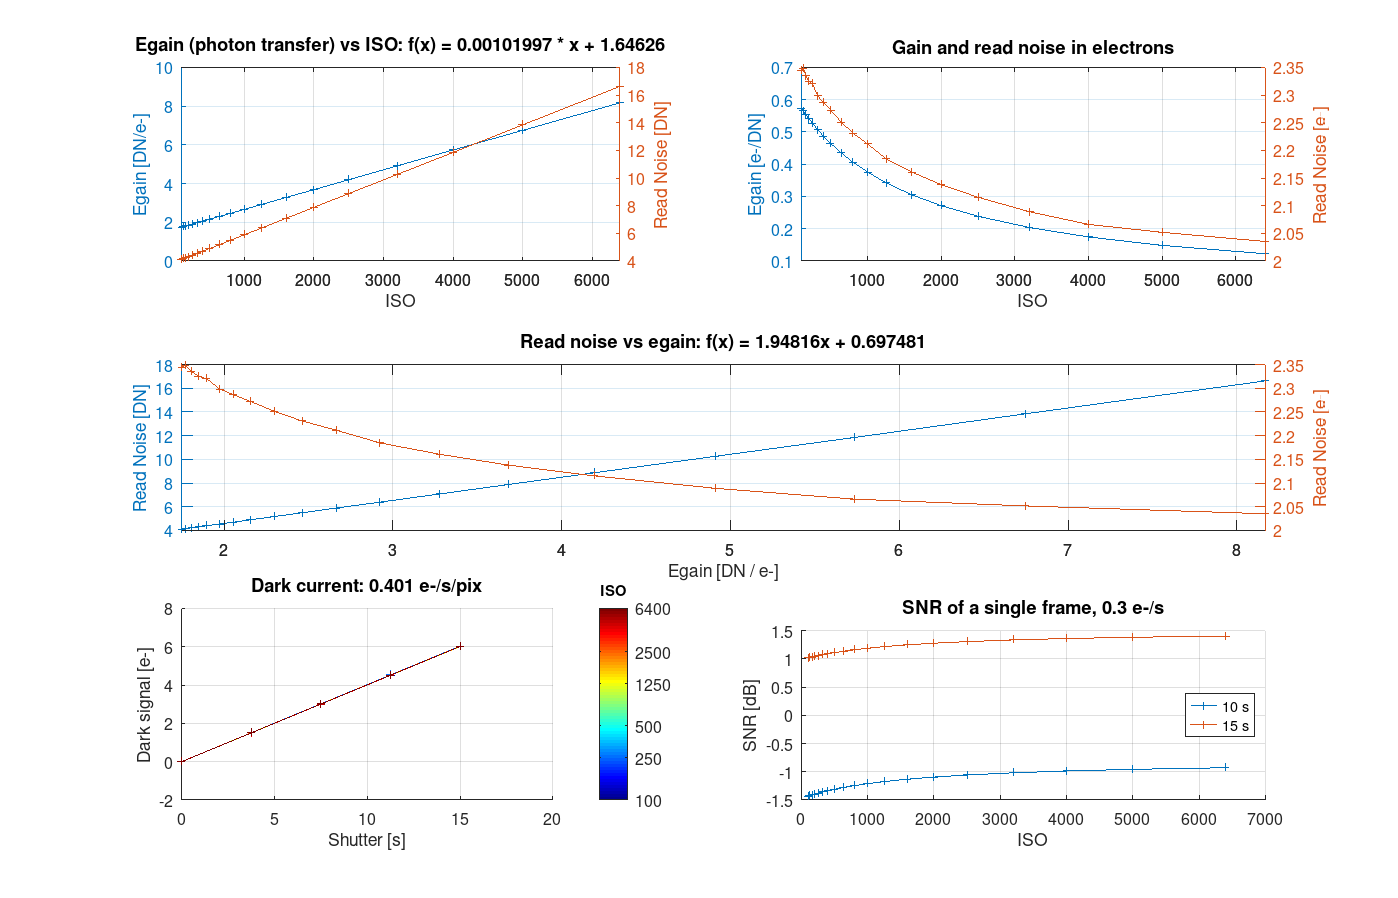
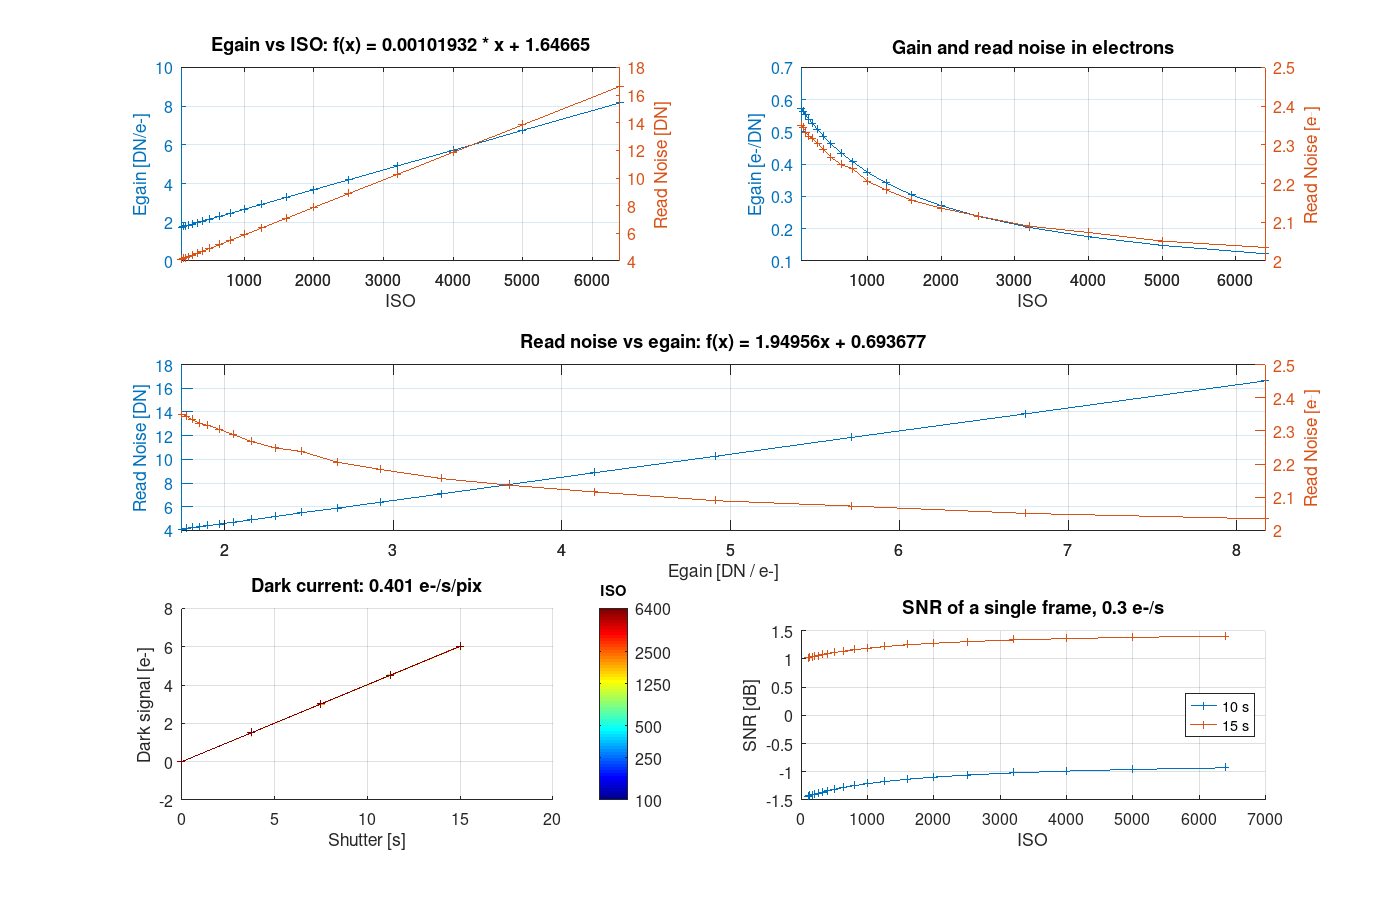
Refactor sensor characterization and fitting functions to use minimum setting instead of anchor; update README files for clarity. Remove unused sensor_anchor function and adjust related model definitions.

diff --git a/sensor_fit.m b/sensor_fit.m
@@ -1,26 +1,45 @@
-function out = sensor_fit(data, anchor = [])
-    % data:   [ISO shutter average sigma] rows from stats/<camera>.csv
-    % anchor: optional struct('iso', <setting>, 'egain', <DN/e->). When given, egain is taken
-    %         from the dark signal rate (DN/s scales with egain, dark current in e-/s does not)
-    %         scaled to the anchor, instead of from the photon-transfer slope. Use it for
-    %         cameras whose darks carry too little signal for photon transfer (cooled / low
-    %         dark current sensors); the anchor ISO should be one where the dark rate is
-    %         well measured.
+function out = sensor_fit(data, min_setting = [])
+    % data:        [ISO shutter average sigma] rows from stats/<camera>.csv
+    % min_setting: lowest ISO/gain to analyse. Default: chosen automatically - the lowest
+    %              setting from which the photon-transfer slope is significant for every
+    %              higher setting (slope / its standard error >= T_MIN). Low settings have too
+    %              little dark signal for a usable slope and are not used in astrophotography
+    %              anyway. Pass a value to override, 0 to keep everything.
+    T_MIN = 10;   % slope significance threshold, ~ correlation > 0.95 on 5+ points
+
     IDX_ISO     = 1;
     IDX_SHUTTER = 2;
     IDX_AVERAGE = 3;
     IDX_SIGMA   = 4;
 
     ISO = unique(data(:, IDX_ISO))';
-    #ISO = ISO(find(ISO < 1600));
-    #ISO = ISO(1:3:end);
-    #ISO = ISO(find(ISO > 500));
-    #ISO = ISO(1:4);
+
+    % significance of the photon-transfer slope for every setting
+    tstat = arrayfun(@(iso) slope_tstat(data(data(:, IDX_ISO) == iso, :)), ISO);
+
+    if isempty(min_setting)
+        bad = find(tstat < T_MIN, 1, 'last');
+        if isempty(bad)
+            min_setting = ISO(1);
+        elseif bad == numel(ISO)
+            error('sensor_fit: photon-transfer slope not significant at any setting (max t = %.1f)', max(tstat));
+        else
+            min_setting = ISO(bad + 1);
+        end
+    end
+    out = {};
+    out.min_setting = min_setting;
+    out.excluded    = ISO(ISO < min_setting);
+    out.tstat_all   = tstat;
+    ISO = ISO(ISO >= min_setting);
+    if ~isempty(out.excluded)
+        printf('sensor_fit: excluded settings below %g (slope not significant): %s\n', min_setting, mat2str(out.excluded));
+    end
+
     COLS = length(ISO);
     ROWS = max(arrayfun(@(iso) sum(data(:, IDX_ISO) == iso), ISO));
 
     % ISO settings may have a different number of exposures; missing entries are NaN
-    out = {};
     out.shutter = nan(ROWS, COLS);
     out.average = nan(ROWS, COLS);
     out.sigma   = nan(ROWS, COLS);
@@ -47,29 +66,9 @@ function out = sensor_fit(data, anchor = [])
     out.dark_rate = out.shutter2average(1, :)';   % DN/s, = dark_current * egain
 
     % Photon transfer: slope = egain, intercept = read noise^2
-    out.egain_pt    = out.average2sigma2(1, :)'; % DN / e-
+    out.egain       = out.average2sigma2(1, :)'; % DN / e-
     out.read_noise2 = out.average2sigma2(2, :)'; % DN^2
-
-    if isempty(anchor)
-        out.egain = out.egain_pt;
-        out.egain_source = 'photon transfer';
-        out.egain_rel = out.dark_rate / out.dark_rate(end);
-    else
-        k = find(ISO == anchor.iso);
-        if isempty(k)
-            error('sensor_fit: anchor ISO %g not in data', anchor.iso);
-        end
-        out.egain_rel = out.dark_rate / out.dark_rate(k);
-        out.egain = out.egain_rel * anchor.egain;
-        out.egain_source = sprintf('dark rate, anchored at %g = %g DN/e-', anchor.iso, anchor.egain);
-        % with egain fixed, read noise^2 is the mean offset of sigma^2 above the Poisson term
-        for i = 1:COLS
-            ok = ~isnan(out.average(:, i));
-            out.read_noise2(i) = mean(out.sigma2(ok, i) - out.egain(i) * out.average(ok, i));
-        end
-    end
-    out.anchor = anchor;
-    out.read_noise = sqrt(out.read_noise2);      % DN
+    out.read_noise  = sqrt(out.read_noise2);     % DN
 
     out.egain2read_noise = polyfit_cols(out.egain, out.read_noise, 1);
 
@@ -108,4 +107,19 @@ function out = polyfit_cols(x, y, n)
         c = polyfit(x(ok, i), y(ok, i), n);
         out(:, i) = c;
     end
+end
+
+% slope / standard error of the sigma^2(average) fit for one setting's rows
+function t = slope_tstat(rows)
+    x = rows(:, 3) - polyfit(rows(:, 2), rows(:, 3), 1)(2);   % average - bias
+    y = rows(:, 4) .^ 2;
+    n = numel(x);
+    if n < 3
+        t = 0;
+        return;
+    end
+    p = polyfit(x, y, 1);
+    res = y - polyval(p, x);
+    se = sqrt(sum(res .^ 2) / (n - 2) / sum((x - mean(x)) .^ 2));
+    t = p(1) / se;
 end

diff --git a/sensor_models.m b/sensor_models.m
@@ -2,17 +2,17 @@ function camera = sensor_models(name)
     % Returns a fitted sensor model by name (output of sensor_print_model).
     switch name
         case "ASI2600MM_5deg"
-            % egain below gain ~150 is unreliable: cooled darks carry too little signal for
-            % photon transfer (see README); read noise in DN is fine
+            % settings below gain 150 excluded by sensor_fit: cooled darks carry too little
+            % signal for a significant photon-transfer slope
             camera = {};
             camera.name = "ASI2600MM_5deg";
             camera.egain2read_noise = @(egain) 0.692273 * egain + 1.70705; # DN
             camera.dark_current = 0.00174143; # e-/s/pix
             camera.bias = 99; # DN
-            camera.egain = [ 6.15376 4.64231 7.14755 6.46586 7.55838 9.30614 10.6594 8.69506 6.84118 14.2484 25.3508 43.54 66.4655 108.061 161.314 263.544 ];
-            camera.read_noise = [ 4.44454 5.55744 7.34372 9.57737 10.0464 10.6008 11.2952 11.7524 5.69132 9.45753 16.0455 26.9249 43.7335 72.052 115.553 186.437 ]; # DN, per setting
+            camera.egain = [ 14.2484 25.3508 43.54 66.4655 108.061 161.314 263.544 ]; # DN/e-, settings >= 150
+            camera.read_noise = [ 9.45753 16.0455 26.9249 43.7335 72.052 115.553 186.437 ]; # DN, per setting
             camera.has_iso = 0; # if false, log10(iso / 100) * 200 = gain [0.1dB]
-            camera.iso = [ 100 133.352 177.828 237.137 251.189 266.073 281.838 298.538 316.228 562.341 1000 1778.28 3162.28 5623.41 10000 17782.8 ];
+            camera.iso = [ 562.341 1000 1778.28 3162.28 5623.41 10000 17782.8 ];
             camera.iso2egain = @(iso) 0.01496 * iso + 7.63132; # DN/e-
 
         case "Nikon_D5100"
@@ -26,20 +26,6 @@ function camera = sensor_models(name)
             camera.has_iso = 1; # if false, log10(iso / 100) * 200 = gain [0.1dB]
             camera.iso = [ 100 125 160 200 250 320 400 500 640 800 1000 1250 1600 2000 2500 3200 4000 5000 6400 ];
             camera.iso2egain = @(iso) 0.0010196 * iso + 1.64578; # DN/e-
-
-        case "Nikon_Z6_2"
-            % egain from dark rate anchored at ISO 800 (sensor_anchor, provisional);
-            % ISO 100-200 unreliable until multi-minute darks are taken
-            camera = {};
-            camera.name = "Nikon_Z6_2";
-            camera.egain2read_noise = @(egain) 1.21549 * egain + 2.61663; # DN
-            camera.dark_current = 0.0282884; # e-/s/pix
-            camera.bias = 1008; # DN
-            camera.egain = [ 0.529149 0.133743 1.34713 1.94479 2.64 5.84907 11.3431 23.9004 49.1149 91.2823 ]; # dark rate, anchored at 800 = 2.64 DN/e-
-            camera.read_noise = [ 1.60813 2.62955 4.68644 7.24611 5.44223 9.542 17.3183 28.9757 64.2185 113.115 ]; # DN, per setting
-            camera.has_iso = 1; # if false, log10(iso / 100) * 200 = gain [0.1dB]
-            camera.iso = [ 100 200 400 640 800 1600 3200 6400 12800 25600 ];
-            camera.iso2egain = @(iso) 0.00361893 * iso + 0.0841148; # DN/e-
 
         otherwise
             error("sensor_models: unknown sensor '%s'", name);

diff --git a/sensor_plot.m b/sensor_plot.m
@@ -22,10 +22,10 @@ function sensor_plot(analysis)
         plot_iso(p.average, p.sigma2, p, p.average2sigma2);
         xlabel('Average - Bias [DN]');
         ylabel('Sigma^2 [DN^2]');
-        if isempty(p.anchor)
+        if isempty(p.excluded)
             title('Photon transfer: slope = egain [DN/e-], intercept = read noise^2');
         else
-            title('Photon transfer (not used for egain: too little dark signal, see anchor)');
+            title(sprintf('Photon transfer: slope = egain [DN/e-], intercept = read noise^2  (settings < %g excluded: slope not significant)', p.min_setting));
         end
     end
 
@@ -42,11 +42,11 @@ function sensor_plot(analysis)
     ylabel(ax(2), 'Read Noise [DN]');
     if p.has_iso
         xlabel('ISO');
-        title(sprintf("Egain (%s) vs ISO: f(x) = %g * x + %g", p.egain_source, p.iso2egain(1), p.iso2egain(2)));
+        title(sprintf("Egain vs ISO: f(x) = %g * x + %g", p.iso2egain(1), p.iso2egain(2)));
     else
         label_gain_ticks(ax, p);
         xlabel('Gain [0.1 dB]  (linear in 100*10^{gain/200})');
-        title(sprintf("Egain (%s) vs gain: f(g) = %g * 100*10^{g/200} + %g", p.egain_source, p.iso2egain(1), p.iso2egain(2)));
+        title(sprintf("Egain vs gain: f(g) = %g * 100*10^{g/200} + %g", p.iso2egain(1), p.iso2egain(2)));
     end
     grid on;
     hold on;

diff --git a/sensor_characterize.m b/sensor_characterize.m
@@ -1,15 +1,15 @@
-function analysis = sensor_characterize(name = 'ASI2600MM_5deg', anchor = sensor_anchor(name))
-    % anchor: [] for photon-transfer egain, or struct('iso', ..., 'egain', ...) - see sensor_fit
-    analysis = load_stats(name, anchor);
+function analysis = sensor_characterize(name = 'ASI2600MM_5deg', min_setting = [])
+    % min_setting: lowest ISO/gain to analyse ([] = automatic, see sensor_fit)
+    analysis = load_stats(name, min_setting);
 
     sensor_plot(analysis);
     sensor_print_model(analysis);
 end
 
-function out = load_stats(name, anchor)
+function out = load_stats(name, min_setting)
     % CSV columns: ISO; shutter [s]; average [DN]; sigma [DN]
     data = dlmread(fullfile('stats', [name '.csv']), ';');
 
-    out = sensor_fit(data, anchor);
+    out = sensor_fit(data, min_setting);
     out.name = name;
 end

diff --git a/sensor_print_model.m b/sensor_print_model.m
@@ -5,7 +5,7 @@ function sensor_print_model(p)
     printf("  camera.egain2read_noise = @(egain) %g * egain + %g; # DN\n", p.egain2read_noise(1), p.egain2read_noise(2));
     printf("  camera.dark_current = %g; # e-/s/pix\n", p.dark_current);
     printf("  camera.bias = %g; # DN\n", floor(median(p.bias)));
-    printf("  camera.egain = [ %s]; # %s\n", sprintf("%g ", p.egain'), p.egain_source);
+    printf("  camera.egain = [ %s]; # DN/e-, settings >= %g\n", sprintf("%g ", p.egain'), p.min_setting);
     printf("  camera.read_noise = [ %s]; # DN, per setting\n", sprintf("%g ", p.read_noise'));
     printf("  camera.has_iso = %d; # if false, log10(iso / 100) * 200 = gain [0.1dB]\n", p.has_iso)
     printf("  camera.iso = [ %s];\n", sprintf("%g ", p.iso));

diff --git a/README.md b/README.md
@@ -95,15 +95,15 @@ real noise the model should describe. Options for faulty data only:
 
 Parameters used: `Nikon_D5100` – `--win 4096 --clip 8`; `Nikon_Z6_2`, `ASI2600MM_5deg` – defaults.
 
-### analysis = sensor_characterize(name, anchor = sensor_anchor(name))
+### analysis = sensor_characterize(name, min_setting = [])
 Main entry point. Loads `stats/<name>.csv` → `sensor_fit` → `sensor_plot` → `sensor_print_model`.
 Returns the `analysis` struct (e.g. for `sensor_plot_iso_limit`).
 
-### analysis = sensor_fit(data, anchor = [])
+### analysis = sensor_fit(data, min_setting = [])
 From the `[ISO shutter average sigma]` matrix computes, for every ISO:
 - `bias` – intercept of the average(shutter) line
 - `dark_rate` [DN/s] – slope of the average(shutter) line
-- `egain_pt` [DN/e-] – slope of the sigma²(average − bias) line (photon transfer)
+- `egain` [DN/e-] – slope of the sigma²(average − bias) line (photon transfer)
 - `read_noise` [DN] – √ of that line's intercept
 - `dark_current` [e-/s/pix] – `dark_rate / egain`
 - `iso2egain`, `egain2read_noise` – linear fits between ISO and the parameters;
@@ -112,18 +112,14 @@ From the `[ISO shutter average sigma]` matrix computes, for every ISO:
 
 The number of exposures may differ between ISO settings (missing entries are `NaN`).
 
-**Where egain comes from.** Photon transfer on darks only works when the dark signal is large
-(D5100: 0.4 e-/s). Cameras with low dark current (cooled astro cameras, modern DSLRs) accumulate
-< 1 e- over the whole series and the variance grows mostly through hot/blinking pixels – the slope
-is random. `anchor = struct('iso', I, 'egain', G)` switches the method: dark current in e-/s does
-not depend on ISO, so `dark_rate(ISO) / dark_rate(I)` is the relative egain (the mean is robust to
-hot pixels) and `G` (from a datasheet / a single flat pair) fixes the absolute value. Read noise² is
-then `sigma² − egain·average`. `egain_source` records which method was used.
-Relative egain at low ISO needs long darks (Z6 II: 0.015 DN/s at ISO 100 → several minutes to
-rise above the noise of the mean).
-
-### anchor = sensor_anchor(name)
-Table of external egain references for cameras that need one (`[]` = photon transfer).
+**Minimum ISO/gain.** Photon transfer needs the dark signal to grow clearly over the series. At low
+ISO/gain on cameras with low dark current (cooled astro cameras, modern DSLRs) less than 1 e-
+accumulates and the variance grows mostly through hot pixels – the slope is random. `sensor_fit`
+computes the slope significance (slope / its standard error) for every setting and drops everything
+below the lowest setting from which all higher ones have t ≥ 10. Dropped settings are reported
+(`analysis.excluded`, `analysis.min_setting`) and appear neither in the plots nor in the model.
+Low ISO/gain is not used in astrophotography anyway. `min_setting` forces the threshold (0 = keep all).
+Result: D5100 – everything from ISO 100; ASI2600 – from gain 150; Z6 II – from ISO 1600.
 
 ### sensor_plot(analysis)
 Fig 1 – input data with fits. Fig 2 – egain, read noise vs ISO, SNR vs ISO.
@@ -141,7 +137,7 @@ sensor_plot_iso_limit(sensor_characterize('Nikon_D5100'), 1600)
 Prints the `camera` struct as code to paste into `sensor_models.m`.
 
 ### camera = sensor_models(name)
-Database of fitted models (`"ASI2600MM_5deg"`, `"Nikon_D5100"`, `"Nikon_Z6_2"`). Besides the linear
+Database of fitted models (`"ASI2600MM_5deg"`, `"Nikon_D5100"`). Besides the linear
 fits it holds the measured `egain` and `read_noise` [DN] for every setting.
 
 ### data = sensor_simulate(camera, shutter)
@@ -158,12 +154,11 @@ Comparison table of cameras from `sensor_models` for a given sky flux [e-/s/px] 
 is 10 % of the sky+dark variance, noise variance per second of integration `sky + D + RN²/t` and the
 resulting relative integration time for equal SNR.
 ```octave
-sensor_compare({'ASI2600MM_5deg', {'Nikon_Z6_2', 800}, {'Nikon_D5100', 1600}}, 0.3, 60)
+sensor_compare({'ASI2600MM_5deg', {'Nikon_D5100', 1600}}, 0.3, 60)
 ```
 ```
 camera            setting   egain  RN [e-]  D [e-/s]  t_min   var/s   time
 ASI2600MM_5deg        250   43.54    0.62    0.0017   12.7   0.308  1.00x
-Nikon_Z6_2            800    2.64    2.06    0.0283  129.4   0.399  1.30x
 Nikon_D5100          1600    5.90    2.04    0.4012   59.4   0.771  2.50x
 ```
 Under a dark sky (0.3 e-/s) the D5100 needs ~2.5× the time of the ASI2600 – almost entirely due to
@@ -200,11 +195,11 @@ Full model:
 
 ### Nikon Z6 II
 
-The darks of this camera carry too little signal for photon transfer (0.015 DN/s at ISO 100), so
-egain comes from the dark signal rate anchored at ISO 800 (`sensor_anchor`, provisional value from
-Z6 data). From ISO 400 upwards the result is consistent: read noise 3.5 e- (ISO 400–640), drop to
-2.1 e- at ISO 800 (dual conversion gain), 1.6 → 1.2 e- above. ISO 100–200 need multi-minute darks
-– not reliable yet.
+`sensor_fit` drops ISO < 1600 (photon-transfer slope not significant – 0.015 DN/s of dark current at
+ISO 100 is too little signal). Even above that the result is physically implausible: egain 70–1100 DN/e-
+(expected ~5–40), read noise 0.05 e-. The variance of the frame difference grows with exposure ~20×
+faster than Poisson predicts – most likely temperature drift between the two frames of a pair times
+the spread of hot-pixel dark current. From darks this camera reliably yields bias (1008 DN), read noise
+in DN (1.6 → 113 DN) and the dark signal rate in DN/s; egain needs flats. The model is not in the database.
 
-![Z6 II – model](plots/Nikon_Z6_2_model.png)
 ![Z6 II – input data](plots/Nikon_Z6_2_input.png)

diff --git a/README.pl.md b/README.pl.md
@@ -95,15 +95,15 @@ realny szum, który model ma opisywać. Opcje do użycia tylko przy wadliwych da
 
 Użyte parametry: `Nikon_D5100` – `--win 4096 --clip 8`; `Nikon_Z6_2`, `ASI2600MM_5deg` – domyślne.
 
-### analysis = sensor_characterize(name, anchor = sensor_anchor(name))
+### analysis = sensor_characterize(name, min_setting = [])
 Główne wejście. Wczytuje `stats/<name>.csv` → `sensor_fit` → `sensor_plot` → `sensor_print_model`.
 Zwraca strukturę `analysis` (np. do `sensor_plot_iso_limit`).
 
-### analysis = sensor_fit(data, anchor = [])
+### analysis = sensor_fit(data, min_setting = [])
 Z macierzy `[ISO shutter average sigma]` liczy dla każdego ISO:
 - `bias` – przecięcie prostej average(shutter)
 - `dark_rate` [DN/s] – nachylenie prostej average(shutter)
-- `egain_pt` [DN/e-] – nachylenie prostej sigma²(average − bias) (photon transfer)
+- `egain` [DN/e-] – nachylenie prostej sigma²(average − bias) (photon transfer)
 - `read_noise` [DN] – √ przecięcia tej prostej
 - `dark_current` [e-/s/pix] – `dark_rate / egain`
 - `iso2egain`, `egain2read_noise` – dopasowania liniowe między ISO i parametrami;
@@ -112,18 +112,14 @@ Z macierzy `[ISO shutter average sigma]` liczy dla każdego ISO:
 
 Liczba czasów może być różna dla różnych ISO (brakujące pola są `NaN`).
 
-**Skąd egain.** Photon transfer na darkach działa tylko, gdy sygnał darka jest duży (D5100: 0.4 e-/s).
-W kamerach z małym prądem ciemnym (chłodzone astro, nowoczesne DSLR) w całej serii przybywa
-< 1 e-, a wariancja rośnie głównie przez gorące/migające piksele – nachylenie jest przypadkowe.
-Wtedy `anchor = struct('iso', I, 'egain', G)` przestawia metodę: prąd ciemny w e-/s nie zależy od ISO,
-więc `dark_rate(ISO) / dark_rate(I)` to względny egain (średnia jest odporna na gorące piksele),
-a `G` (z specyfikacji / jednej pary flatów) daje wartość absolutną. Read noise² liczony jest wtedy
-jako `sigma² − egain·average`. Pole `egain_source` mówi, która metoda była użyta.
-Do względnego egain przy niskich ISO potrzebne są długie darki (Z6 II: 0.015 DN/s przy ISO 100
-→ kilka minut, żeby wyjść ponad szum średniej).
-
-### anchor = sensor_anchor(name)
-Tabela zewnętrznych punktów odniesienia egain dla kamer, które go potrzebują (`[]` = photon transfer).
+**Minimalne ISO/gain.** Photon transfer wymaga, żeby sygnał darka wyraźnie rósł w serii. Przy niskim
+ISO/gain w kamerach z małym prądem ciemnym (chłodzone astro, nowoczesne DSLR) przybywa < 1 e-,
+a wariancja rośnie głównie przez gorące piksele – nachylenie jest przypadkowe. `sensor_fit` liczy
+dla każdego ustawienia istotność nachylenia (nachylenie / jego błąd standardowy) i odrzuca wszystko
+poniżej najniższego ustawienia, od którego w górę wszystkie mają t ≥ 10. Odrzucone ustawienia są
+wypisywane (`analysis.excluded`, `analysis.min_setting`) i nie trafiają na wykresy ani do modelu.
+W astrofoto niskie ISO/gain i tak się nie używa. `min_setting` wymusza próg ręcznie (0 = wszystko).
+Efekt: D5100 – wszystko od ISO 100; ASI2600 – od gain 150; Z6 II – od ISO 1600.
 
 ### sensor_plot(analysis)
 Fig 1 – dane wejściowe z dopasowaniami. Fig 2 – egain, read noise vs ISO, SNR vs ISO.
@@ -141,7 +137,7 @@ sensor_plot_iso_limit(sensor_characterize('Nikon_D5100'), 1600)
 Drukuje strukturę `camera` w formie kodu do wklejenia w `sensor_models.m`.
 
 ### camera = sensor_models(name)
-Baza dopasowanych modeli (`"ASI2600MM_5deg"`, `"Nikon_D5100"`, `"Nikon_Z6_2"`). Oprócz dopasowań
+Baza dopasowanych modeli (`"ASI2600MM_5deg"`, `"Nikon_D5100"`). Oprócz dopasowań
 liniowych zawiera zmierzone `egain` i `read_noise` [DN] dla każdego ustawienia.
 
 ### data = sensor_simulate(camera, shutter)
@@ -158,12 +154,11 @@ wymuszone przez `{nazwa, ustawienie}`), egain, read noise [e-], prąd ciemny, `t
 od której read noise² to 10 % wariancji nieba+darka, wariancja na sekundę integracji
 `sky + D + RN²/t` i wynikający z niej względny czas integracji do tego samego SNR.
 ```octave
-sensor_compare({'ASI2600MM_5deg', {'Nikon_Z6_2', 800}, {'Nikon_D5100', 1600}}, 0.3, 60)
+sensor_compare({'ASI2600MM_5deg', {'Nikon_D5100', 1600}}, 0.3, 60)
 ```
 ```
 camera            setting   egain  RN [e-]  D [e-/s]  t_min   var/s   time
 ASI2600MM_5deg        250   43.54    0.62    0.0017   12.7   0.308  1.00x
-Nikon_Z6_2            800    2.64    2.06    0.0283  129.4   0.399  1.30x
 Nikon_D5100          1600    5.90    2.04    0.4012   59.4   0.771  2.50x
 ```
 Przy ciemnym niebie (0.3 e-/s) D5100 potrzebuje ~2.5× czasu ASI2600 – prawie wyłącznie przez prąd
